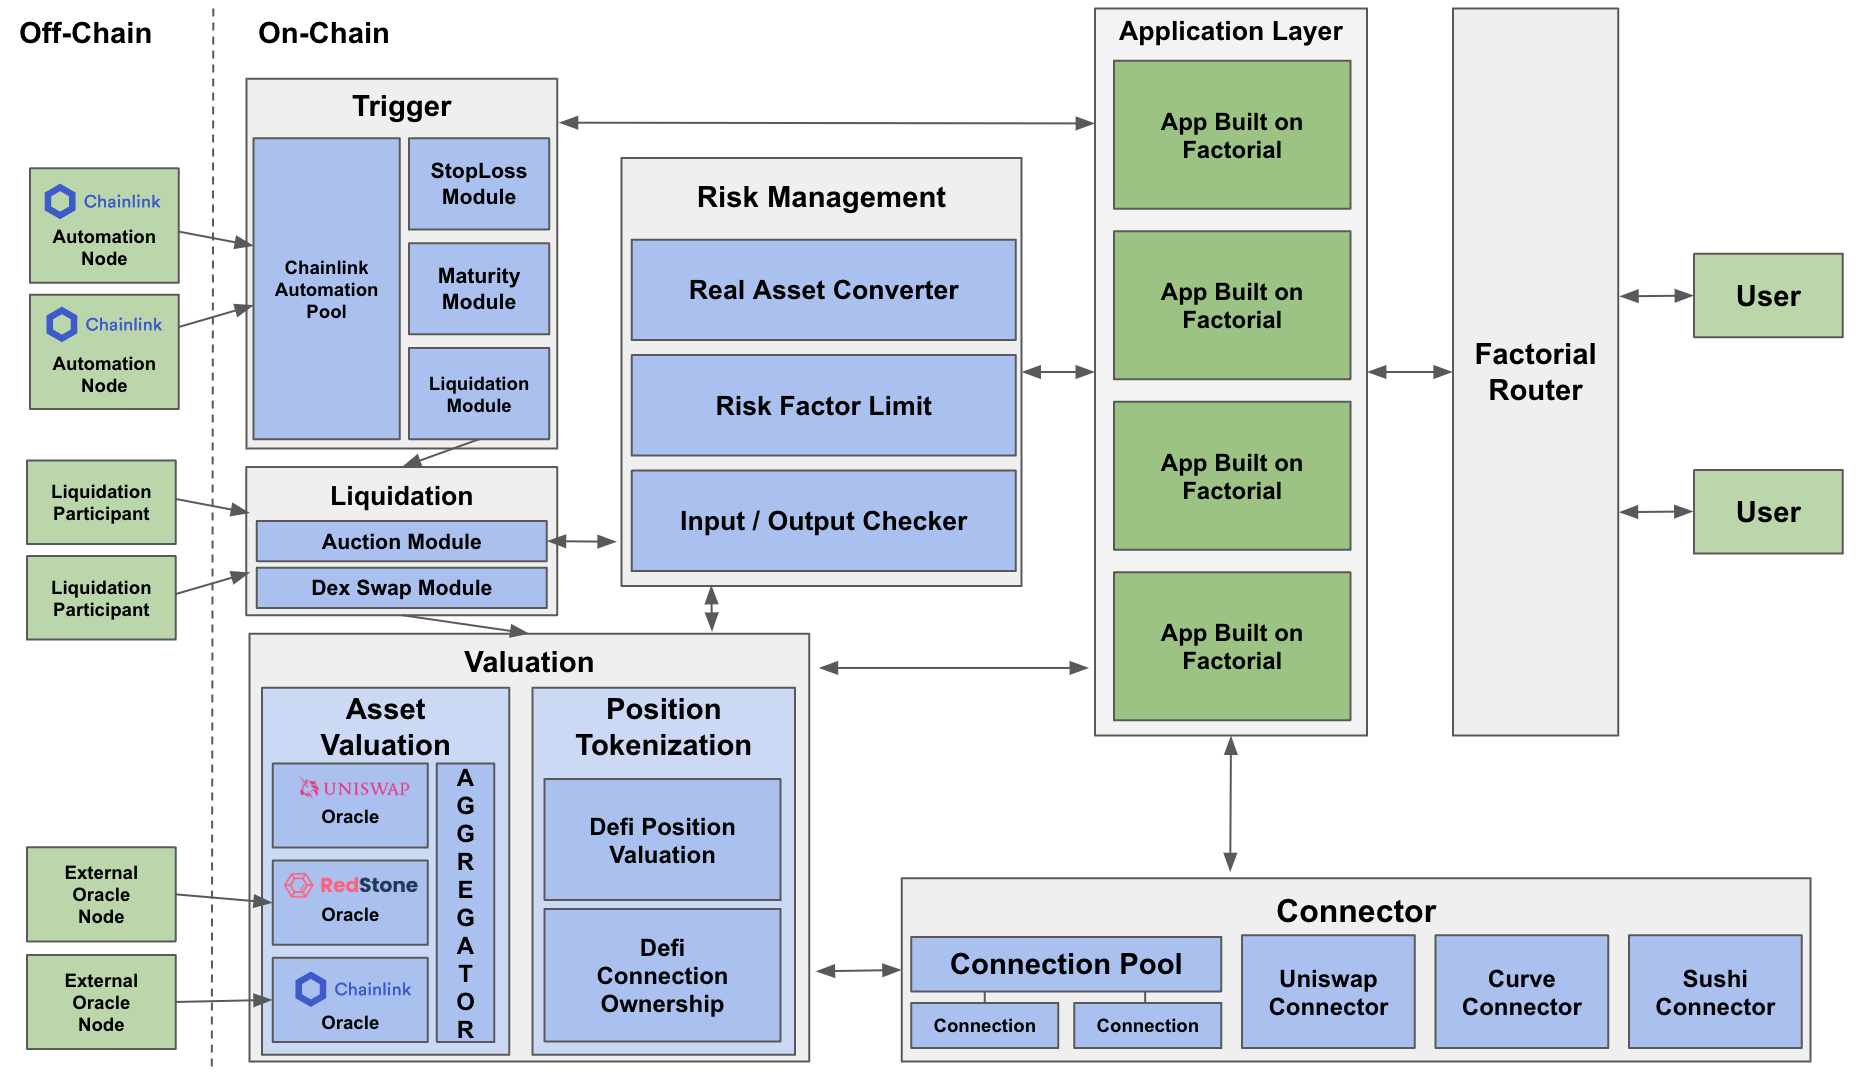
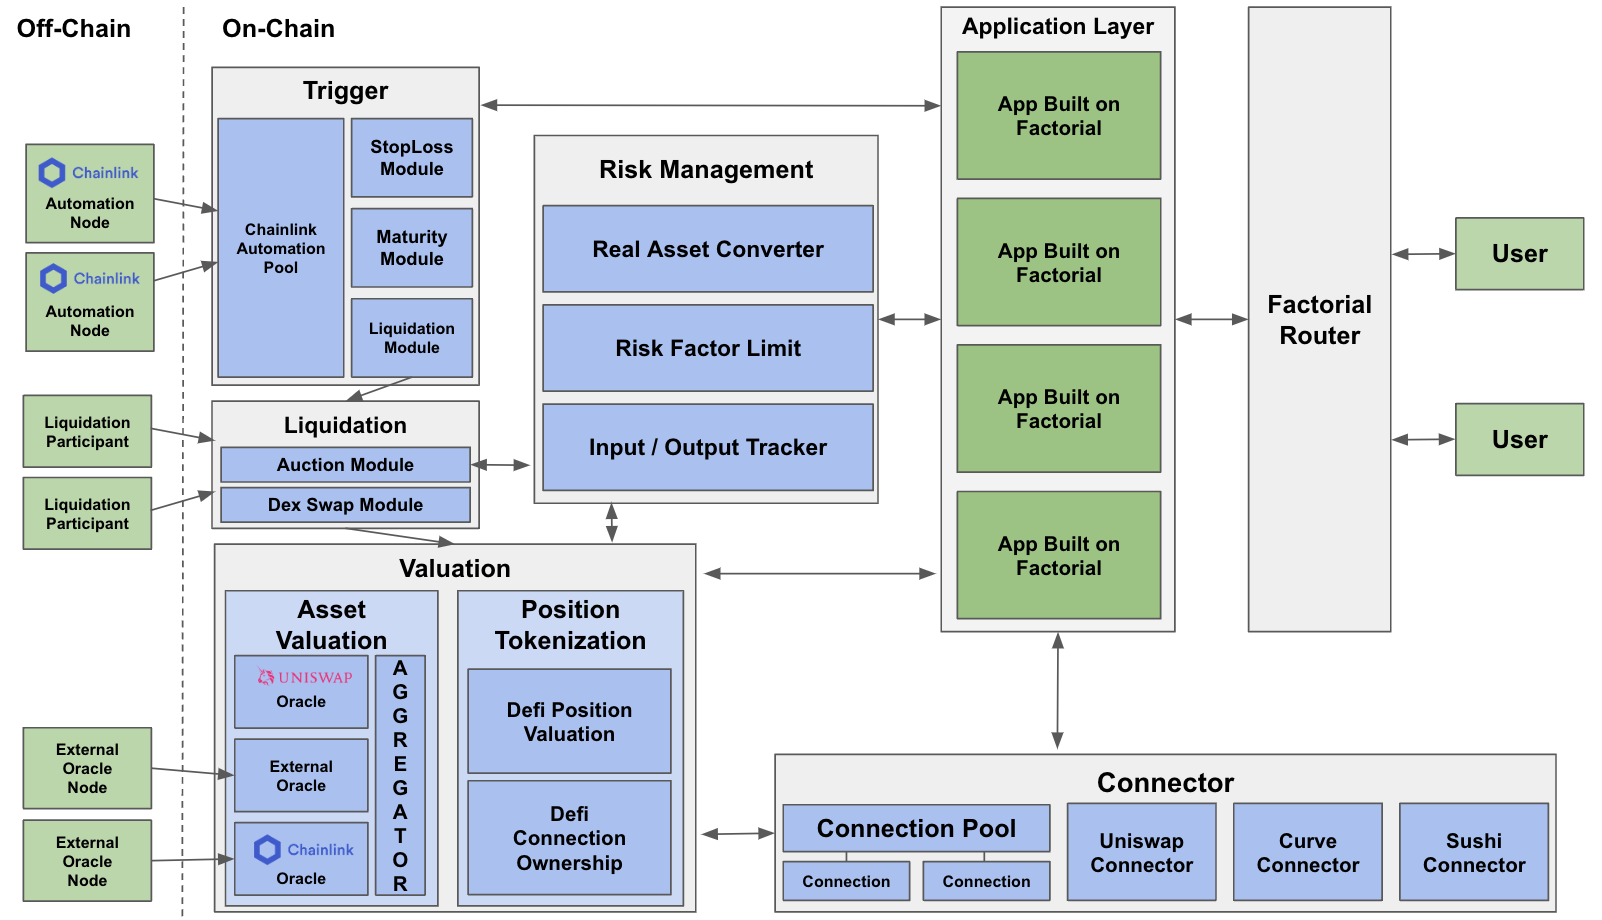
Fix `README.md`  (#5)
* fix: change picture of architecture

* fix: remove test description

diff --git a/README.md b/README.md
@@ -6,7 +6,7 @@ Easy to Build, Hard to Rug.
 ## Overview
 
 This repository is for ETHDenver2023 BUIDLathon.
-We provide contracts, tests, and deployment scripts.
+We provide contracts and deployment scripts.
 
 ### Depolyment and Test
 
